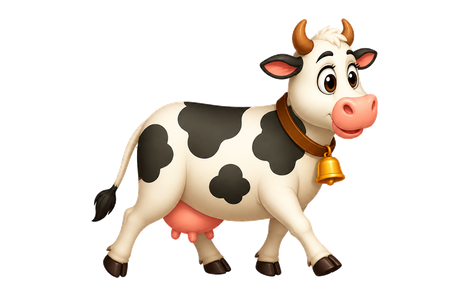
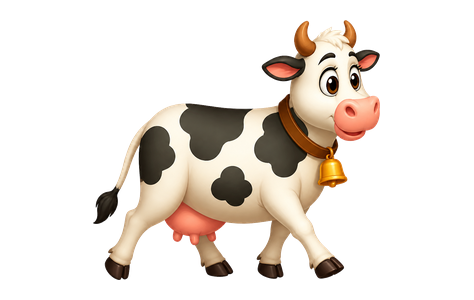
Tighten cow sprite cutouts and eat-sheet cell size
Re-key the walk and graze art so leftover white fringe does not read as a box, and keep the 4-frame eat sheet on equal 474×300 cells.

diff --git a/apps/player/src/pixi/paintedAssets.ts b/apps/player/src/pixi/paintedAssets.ts
@@ -6,9 +6,9 @@ export const CROP_STAGE_FRAMES = 4;
 export const CROP_FRAME_WIDTH = 392;
 
 /** Padded 4-frame eat/graze sheet (equal cells; Pixi insets so frames never share pixels). */
-export const COW_EAT_SHEET = { width: 1880, height: 296, frames: 4 } as const;
+export const COW_EAT_SHEET = { width: 1896, height: 300, frames: 4 } as const;
 /** Each standalone walk texture is one full cow on this canvas. */
-export const COW_WALK_FRAME = { width: 470, height: 296 } as const;
+export const COW_WALK_FRAME = { width: 474, height: 300 } as const;
 
 export const PAINTED_ART = {
   playfield: "/art/painted/farmhand_painted_playfield_v2_blank_signs.jpg",

diff --git a/apps/player/public/art/painted/README.md b/apps/player/public/art/painted/README.md
@@ -7,7 +7,7 @@ Texture is **1536×1024**. UV anchors (fractions of the painting) live in `apps/
 | `farmhand_painted_playfield_v2_blank_signs.jpg` | Farm scene background (cover-fit). Three gardens have blank wooden signs. |
 | `tractor_exhaust_smoke_sheet.png` | 6-frame horizontal smoke puff. Frame 264×563. Anchor bottom-center (`0.5, 0.92`) on the **pipe mouth** at UV `(0.273, 0.252)` ≈ pixel `(419, 258)` — top of the vertical stack, not the hood. |
 | `cow_walk_frame_a.png` / `cow_walk_frame_b.png` | Two standalone walk poses (**faces right only**). Loaded as two full textures — not sliced from a sheet. Loop for walk. Anchor feet `(0.5, 0.94)`. Left roam uses `scale.x = -1`. |
-| `cow_eat_sheet.png` | 4 equal padded graze cells (470×296). Pixi slices inset 2px so frames never share pixels. Do **not** use `cow_walk_eat_sheet*.png`. |
+| `cow_eat_sheet.png` | 4 equal padded graze cells (474×300). Pixi slices inset 2px so frames never share pixels. Do **not** use `cow_walk_eat_sheet*.png`. |
 | `plants/plant_*_stages.png` | 4-frame horizontal crop sheets (left→right: seed, seedling, buds, ripe). Frame width 392. Anchor ~0.5, 0.9 on each painted garden mound. Crop **names are not painted on the art** — Pixi/React labels use `/api` tier names. |
 
 A static Holstein is baked into the playfield near the barn. The animated cow starts on that grass and covers it when nearby; a slight double is accepted for v1.
